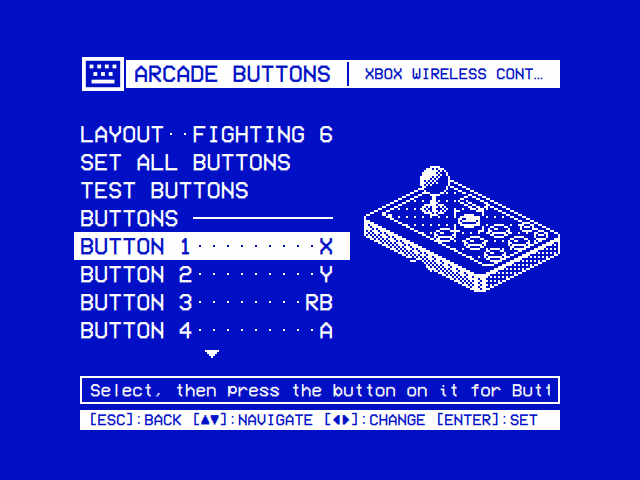
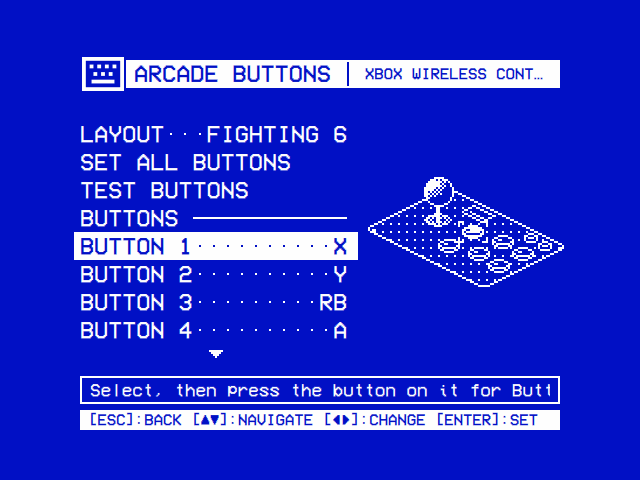
feat: Arcade Buttons draws only the arcade stick's top panel
The Arcade Buttons page drew the whole stick: its box, with the front's
lip and notch, and a plate set in its top. It now draws the top panel
alone, still in isometric pixel art: the panel with a screw at each
corner, the ball-top stick, the six buttons in Sega's two rows of three,
the memory card's window, and COIN and START at the back. Everything on
the panel keeps its place; the drawing is 100 by 57 cells instead of 104
by 72, so it takes less height on the page and in Set All Buttons.

The two Arcade Buttons screenshots are retaken; Controls and ARCHITECTURE
describe the top panel.

Changed region(s): [[0.4688, 0.3438, 0.875, 0.7188], [0.2812, 0.25, 0.5625, 0.3125], [0.3125, 0.7188, 0.3438, 0.75]]

diff --git a/views/Components/ArcadePanelArt.js b/views/Components/ArcadePanelArt.js
@@ -1,13 +1,13 @@
 .pragma library
 
-// The Arcade Buttons page's drawing (ArcadePanel.qml): an arcade stick in
-// two-colour isometric pixel art, after Sega's Dreamcast Arcade Stick. A box
-// with a plate set in its top: on the plate a Japanese ball-top stick (a
-// Sanwa JLF's) on the left, six snap-in buttons (Sanwa OBSF-30s) in Sega's
-// layout on the right, two rows of three that follow the fingers (the first
-// column nearer the player, the second the farthest), and a memory card's
-// window behind them; COIN and START, two small buttons, at the back right.
-// Any of them can be lit: a button, COIN or START.
+// The Arcade Buttons page's drawing (ArcadePanel.qml): an arcade stick's top
+// panel, alone, in two-colour isometric pixel art, after Sega's Dreamcast
+// Arcade Stick. On it a Japanese ball-top stick (a Sanwa JLF's) on the left,
+// six snap-in buttons (Sanwa OBSF-30s) in Sega's layout on the right, two
+// rows of three that follow the fingers (the first column nearer the player,
+// the second the farthest), and a memory card's window behind them; COIN and
+// START, two small buttons, at the back right. Any of them can be lit: a
+// button, COIN or START.
 //
 // draw() lays it out on a grid of cells, one art pixel each: 0 for none
 // (the ground the host draws on shows), 1 for ink, 2 for the ground drawn
@@ -16,29 +16,26 @@
 // (from the top left) has more of it.
 
 // The grid.
-var width = 104
-var height = 72
+var width = 100
+var height = 57
 
 // Isometric 2:1: along the stick (u, the player's left to right) a cell
 // down for every two right, into it (v, away from the player) a cell up for
-// every two right, z straight up, all in cells. Origin: the top's front left
-// corner.
-var originX = 1
-var originY = 29
+// every two right, z straight up, all in cells. Origin: the panel's front
+// left corner.
+var originX = -1
+var originY = 27
 
 function project(u, v, z) {
     return { x: originX + 2 * u + 2 * v, y: originY + u - v - (z || 0) }
 }
 
-// The box: its length, depth and height, its corners rounded off; the plate
-// set in its top, the rim round it (left and right, front, back).
-var boxLength = 30
-var boxDepth = 21
-var boxHeight = 8
+// The panel: its length and depth, its corners rounded off.
+var panelLength = 30
+var panelDepth = 21
 var corner = 1.2
-var plate = { left: 1.6, right: 1.6, front: 3.4, back: 1.6 }
 
-// Where things stand on the top (u, v). The buttons' columns follow the
+// Where things stand on it (u, v). The buttons' columns follow the
 // fingers: the first a little nearer the player, the second the farthest,
 // the third a little nearer again.
 var stick = { u: 7, v: 11.5 }
@@ -220,7 +217,7 @@ function ellipse(cx, cy, rx, ry) {
         }
     }
 }
-// A rectangle on the top, (u0, v0) to (u1, v1), its corners cut by c: the
+// A rectangle on the panel, (u0, v0) to (u1, v1), its corners cut by c: the
 // points round it from the front left, at height z.
 function outline(u0, v0, u1, v1, c, z) {
     return [project(u0 + c, v0, z), project(u1 - c, v0, z), project(u1, v0 + c, z), project(u1, v1 - c, z),
@@ -230,7 +227,6 @@ function outline(u0, v0, u1, v1, c, z) {
 // Two-colour shading: ink on a share of the cells, in an even pattern.
 function ground() { return 2 }
 function half(x, y) { return (x + y) % 2 === 0 ? 1 : 2 }
-function quarter(x, y) { return x % 2 === 0 && y % 2 === 0 ? 1 : 2 }
 function sixteenth(x, y) { return x % 4 === 0 && y % 4 === 0 ? 1 : 2 }
 
 // The stick (Sanwa JLF with its ball top): the dust washer round the shaft,
@@ -267,36 +263,13 @@ function draw(lit) {
     for (var i = 0; lit && i < lit.length; i++)
         on[lit[i]] = true
     var grid = new Grid(width, height)
-    var L = boxLength, D = boxDepth, H = boxHeight
+    var L = panelLength, D = panelDepth
 
-    // The box's sides that face the viewer: the front and the rounded
-    // corner in the light, the right end in less.
-    var top = outline(0, 0, L, D, corner, 0)
-    var bottom = outline(0, 0, L, D, corner, -H)
-    var sides = [[0, 1, half], [1, 2, half], [2, 3, quarter]]
-    for (var s = 0; s < sides.length; s++) {
-        var a = sides[s][0], b = sides[s][1]
-        var side = polygon([top[a], top[b], bottom[b], bottom[a]])
-        grid.paint(side, sides[s][2])
-        grid.edge(side)
-    }
-    // The front's lip, and the notch in its foot.
-    grid.line(project(corner, 0, -2.5), project(L - corner, 0, -2.5), 1)
-    var notch = [project(L / 2 - 2.5, 0, -H), project(L / 2, 0, -H + 3.5), project(L / 2 + 2.5, 0, -H)]
-    grid.paint(polygon(notch), ground)
-    grid.line(notch[0], notch[1], 1)
-    grid.line(notch[1], notch[2], 1)
-
-    // The top: the rim, the plate set in it with its screws, the memory
-    // card's window.
-    var deck = polygon(top)
-    grid.paint(deck, ground)
-    grid.edge(deck)
-    var face = polygon(outline(plate.left, plate.front, L - plate.right, D - plate.back, corner * 0.6, 0))
-    grid.paint(face, sixteenth)
-    grid.edge(face)
-    var screws = [[plate.left + 1.1, plate.front + 1.1], [L - plate.right - 1.1, plate.front + 1.1],
-                  [plate.left + 1.1, D - plate.back - 1.1]]
+    // The panel, its screws, the memory card's window.
+    var panel = polygon(outline(0, 0, L, D, corner, 0))
+    grid.paint(panel, sixteenth)
+    grid.edge(panel)
+    var screws = [[1.1, 1.1], [L - 1.1, 1.1], [1.1, D - 1.1], [L - 1.1, D - 1.1]]
     for (var w = 0; w < screws.length; w++) {
         var sc = project(screws[w][0], screws[w][1], 0)
         grid.set(Math.round(sc.x), Math.round(sc.y), 1)

diff --git a/views/Components/ArcadePanel.qml b/views/Components/ArcadePanel.qml
@@ -1,11 +1,11 @@
 import QtQuick
 import "ArcadePanelArt.js" as Art
 
-// An arcade stick after Sega's Dreamcast Arcade Stick, drawn in the theme's
-// two colours: a ball-top stick, Sega's six buttons in two rows of three,
-// and COIN and START at the back (ArcadePanelArt.js draws it). lit: the
-// inputs shown lit, "1" to "6", "coin" and "start" (Arcade Buttons' names);
-// Button 7 and 8 aren't on it.
+// An arcade stick's top panel after Sega's Dreamcast Arcade Stick, drawn in
+// the theme's two colours: a ball-top stick, Sega's six buttons in two rows
+// of three, and COIN and START at the back (ArcadePanelArt.js draws it).
+// lit: the inputs shown lit, "1" to "6", "coin" and "start" (Arcade Buttons'
+// names); Button 7 and 8 aren't on it.
 //
 // Each of the drawing's cells is cell screen pixels square, so it keeps its
 // pixels whole: root.px, a 240-line picture's pixel, by default.

diff --git a/ARCHITECTURE.md b/ARCHITECTURE.md
@@ -572,7 +572,7 @@ Settings → Controls lists every controller and gives each its own bindings, an
 - **Labels elsewhere.** `buttonLabel(key, token)` names one of a pad's buttons as its labels do (input.cfg's token: `back`, `start`), for a view that tells the player which to press; `arcadeLabel(key, input)` one of its Arcade Buttons (`coin`, `start`): the Arcade module's `COIN + START`.
 - **Arcade Buttons.** A pad's buttons as a cabinet's: Buttons 1 to 8, Coin and Start (`controllers::kArcadeInputs`), each a button of the pad, a trigger pressed or the right stick pushed one way (`arcadeTokens()`; the D-pad and the left stick are the joystick, and Guide shows MAME's menu). A layout gives them: Default, none of its own (its Coin and Start are Back and Start, and MAME and FinalBurn Neo number its other buttons their own ways), Fighting 6 and Neo Geo 4, which set all ten, and Custom, set by hand. `arcadePage(key)` is what the page shows: each input's button on that pad, None where the pad has no such input (`padShape()`: SDL's buttons and axes, a trigger counted as a button where SDL binds it to one or the pad's are digital, a Switch Pro Controller's or a pair of Joy-Cons'), and the inputs the pad can give. `setArcadeLayout`; `setArcadeInput`, one input, which makes the layout Custom: a button another input has swaps with it (none for an input the pad hasn't), and Coin and Start always keep one (`set`, `swapped`, `kept`, `already`, `joystick`, `menu` for Guide, `unsaved`); `setArcadeInputs`, all ten at once or nothing (Set All Buttons). The profile keeps them as `arcade: {layout, inputs: {"1"…"8", coin, start}}`; read back, an input another already has is none, and a map without a Coin or a Start is dropped whole. On a pad connected they are as they act there (`controllers::arcadeActing()`): a Coin or a Start it hasn't, set while it was away, is its own Back or Start, or the other's own where the other of the two has its own, which a button that had it gives up, so a game can always be paid for and left; the page, `arcadeLabel()`, `Pad::coin` and the games all take them so. `publishArcade()`, with the players, gives the Arcade module each player's pad's (`controllers::setPlayerArcade`, none under Default): MAME's input for each (`mameInput()`: the buttons MAME's `sdlgame` numbers, in its order, among those the pad has (A, B, X, Y, LB, RB, the triggers where they are buttons, LS, RS, the paddles, Guide, Misc1, the touchpad), Back and Start `SELECT` and `START`, a trigger otherwise `SLIDER1/2_NEG_SWITCH`, the right stick `ZAXIS` and `RZAXIS`), and RetroArch's `sdl2` bind (`retroarchBind()`).
 - **The coin.** A pad's Coin is MAME's coin: its Arcade Buttons' (`Pad::coin`), Back under Default (COIN on the JAMMA board's sticks). Where the item with the focus takes a coin (a `takesCoin` property `true` on it, or on the nearest item round it that has one: the Arcade screen, and `Play.qml` before a game from it), `handleButton()`, or `handleAxis()` for a trigger or the right stick, makes that input MAME's coin key, `Qt::Key_5`, instead of its action, whatever it is bound to (`takesCoin()`, `m_coinInputs` for its release); anywhere else it does its action as ever, and Back stays wherever the pad's bindings put it (B by default). The view handles the key alone, as it does a keyboard's 5, so no view handles a pad.
-- **The views.** `views/Controllers.qml` is Settings' Controls row: All Keyboards & Remotes (`RemapControls.qml`, the shared remap), the players (a `ChoiceOverlay` of the pads connected, or ◄ ►), then the controllers connected, then those away with settings of their own. `views/ControllerSettings.qml` is a controller's page: its labels, Test Buttons, a pad's Arcade Buttons (`views/ArcadeButtons.qml`: its layout, Set All Buttons, Test Buttons and each input, ◄ ► through what the pad can give, beside an arcade stick, `Components/ArcadePanel.qml`, that lights the line's input, the one a wait asks for or the one a test press is: two-colour isometric pixel art drawn cell by cell by `ArcadePanelArt.js`, its cells `root.px` square), its seven actions, Clear a Button (or Remove a Key) and Reset to Defaults, and a "press a button on it" screen. That screen ends by itself after 10 seconds, as a pad's own buttons can't cancel it; another controller's Back cancels it, and so does a keyboard's or remote's own Back. What came of a press shows in the help line.
+- **The views.** `views/Controllers.qml` is Settings' Controls row: All Keyboards & Remotes (`RemapControls.qml`, the shared remap), the players (a `ChoiceOverlay` of the pads connected, or ◄ ►), then the controllers connected, then those away with settings of their own. `views/ControllerSettings.qml` is a controller's page: its labels, Test Buttons, a pad's Arcade Buttons (`views/ArcadeButtons.qml`: its layout, Set All Buttons, Test Buttons and each input, ◄ ► through what the pad can give, beside an arcade stick's top panel, `Components/ArcadePanel.qml`, that lights the line's input, the one a wait asks for or the one a test press is: two-colour isometric pixel art drawn cell by cell by `ArcadePanelArt.js`, its cells `root.px` square), its seven actions, Clear a Button (or Remove a Key) and Reset to Defaults, and a "press a button on it" screen. That screen ends by itself after 10 seconds, as a pad's own buttons can't cancel it; another controller's Back cancels it, and so does a keyboard's or remote's own Back. What came of a press shows in the help line.
 
 ### Input survives a display hand-off
 
@@ -1019,7 +1019,7 @@ Pixel-drawn pieces of a deck's on-screen menu, built on `root.px` (one pixel of 
 | `SelectionBox` | The selected line's box: the skin's `selection` picture, or a solid bar. It tells `Main.qml` where it is, for the selector effect (`SelectorFx`); `skinned: false` keeps it a plain bar (the on-screen keyboard's keys). Every selection uses it. |
 | `BackgroundFx` | The background effect in an area (`area`, in screen coordinates), drawn on art pixels on the screen's grid; `OsdGround` places it (see [Effects](#effects)). |
 | `PixelIcon` | A symbol from a small bitmap: `play`, `left`, `up`, `down`, `ff`, `rew`, `pause`, `stop`, `rec`, `eject`, plus the `ok` key and `tape` badges, the `heart` the Arcade screen marks a favourite with and the `search` glass on its Search row, a Wi-Fi network's `lock` and signal (`signal1` to `signal4`, and `signal0`, the bars' feet alone), and the status icons' `bluetooth`, `bluetoothLinked`, `hiscore` (HI), `trophy`, `globe` and `network`. |
-| `ArcadePanel` | An arcade stick after Sega's Dreamcast Arcade Stick, the Arcade Buttons page's: a ball-top stick, Sega's six buttons, and COIN and START at the back, in two-colour isometric pixel art drawn a cell at a time (`ArcadePanelArt.js`), `cell` screen pixels to a cell (`root.px` unless set); `lit` lists the inputs drawn lit and framed (`1` to `6`, `coin`, `start`). |
+| `ArcadePanel` | An arcade stick's top panel after Sega's Dreamcast Arcade Stick, the Arcade Buttons page's: a ball-top stick, Sega's six buttons, and COIN and START at the back, in two-colour isometric pixel art drawn a cell at a time (`ArcadePanelArt.js`), `cell` screen pixels to a cell (`root.px` unless set); `lit` lists the inputs drawn lit and framed (`1` to `6`, `coin`, `start`). |
 | `OsdTicks` | The segment bar, `||||----`: a tick per filled step and a dash per empty one. The boot screen's progress bar. |
 | `OsdTapeBar` | The tape position bar: a ▼ over the position, a ruled bar filled up to it, and the names of its ends under them: BEGIN and END, or a setting's own (`startText`, `endText`), as Settings' TRANSPARENT … SOLID slider. |
 

diff --git a/docs/wiki/Controls.md b/docs/wiki/Controls.md
@@ -315,13 +315,13 @@ The d-pad is `D-PAD ▲ ▼ ◄ ►` on all of them, the sticks `L STICK` and `R
 
 <table>
 <tr><th width="50%">A pad's Arcade Buttons</th><th width="50%">Set All Buttons</th></tr>
-<tr><td><img src="https://raw.githubusercontent.com/mehmetraif/OSD-OS/main/docs/screenshots/arcade-buttons.png" width="100%" alt="ARCADE BUTTONS, XBOX WIRELESS CONTROLLER: LAYOUT FIGHTING 6, SET ALL BUTTONS, TEST BUTTONS, then BUTTONS: BUTTON 1 X (selected), BUTTON 2 Y, BUTTON 3 RB, BUTTON 4 A. Beside them an arcade stick in two colours after Sega's Dreamcast Arcade Stick, a ball-top stick, six buttons in two rows and two small ones at the back, the top row's first lit and framed" /></td><td><img src="https://raw.githubusercontent.com/mehmetraif/OSD-OS/main/docs/screenshots/arcade-buttons-set-all.png" width="100%" alt="SET ALL BUTTONS (3/10): PRESS THE BUTTON ON XBOX WIRELESS CONTROLLER FOR [BUTTON 3], OR WAIT IF IT HAS NONE; the stick, small, with Button 3 lit; the presses so far: BUTTON 2: Y, BUTTON 1: X. NONE IN 4" /></td></tr>
+<tr><td><img src="https://raw.githubusercontent.com/mehmetraif/OSD-OS/main/docs/screenshots/arcade-buttons.png" width="100%" alt="ARCADE BUTTONS, XBOX WIRELESS CONTROLLER: LAYOUT FIGHTING 6, SET ALL BUTTONS, TEST BUTTONS, then BUTTONS: BUTTON 1 X (selected), BUTTON 2 Y, BUTTON 3 RB, BUTTON 4 A. Beside them an arcade stick's top panel in two colours after Sega's Dreamcast Arcade Stick: a ball-top stick, six buttons in two rows and two small ones at the back, the top row's first lit and framed" /></td><td><img src="https://raw.githubusercontent.com/mehmetraif/OSD-OS/main/docs/screenshots/arcade-buttons-set-all.png" width="100%" alt="SET ALL BUTTONS (3/10): PRESS THE BUTTON ON XBOX WIRELESS CONTROLLER FOR [BUTTON 3], OR WAIT IF IT HAS NONE; the stick, small, with Button 3 lit; the presses so far: BUTTON 2: Y, BUTTON 1: X. NONE IN 4" /></td></tr>
 <tr><td>Fighting 6 on an Xbox pad: a fighter's punches on X, Y and RB, its kicks on A, B and RT. The stick lights the line's button.</td><td>Set All takes the buttons from presses in turn, the stick lighting the one it asks for, and keeps none of them until the last.</td></tr>
 </table>
 
 A pad's own page has **Arcade Buttons**: which of its buttons is each of an arcade cabinet's, **Button 1** to **Button 8**, **Coin** and **Start**. The [Arcade](https://github.com/mehmetraif/OSD-OS/wiki/Arcade#players-and-buttons) module gives each player's to MAME and FinalBurn Neo alike as a game starts, so that a game's button 1 is the same button in both, and on any pad. The joystick is always the D-pad and the left stick.
 
-Beside the lines is an arcade stick drawn in the theme's two colours, after Sega's Dreamcast Arcade Stick: a box with a plate set in its top, on it a Japanese ball-top stick (a Sanwa JLF's) and six snap-in buttons (Sanwa OBSF-30s) in Sega's layout, two rows of three that follow the fingers, a memory card's window behind them, and two small buttons at the back right, **Coin** and **Start**. The line's input is lit and framed on it; Button 7 and 8 aren't on a six-button stick. Set All lights the one it asks for, and Test Buttons the one the last press is, on a smaller stick (none on a 240-line picture, which has no room for it).
+Beside the lines is an arcade stick's top panel, drawn in the theme's two colours after Sega's Dreamcast Arcade Stick: on it a Japanese ball-top stick (a Sanwa JLF's) and six snap-in buttons (Sanwa OBSF-30s) in Sega's layout, two rows of three that follow the fingers, a memory card's window behind them, and two small buttons at the back right, **Coin** and **Start**. The line's input is lit and framed on it; Button 7 and 8 aren't on a six-button stick. Set All lights the one it asks for, and Test Buttons the one the last press is, on a smaller stick (none on a 240-line picture, which has no room for it).
 
 | Row | What it does |
 |---|---|
